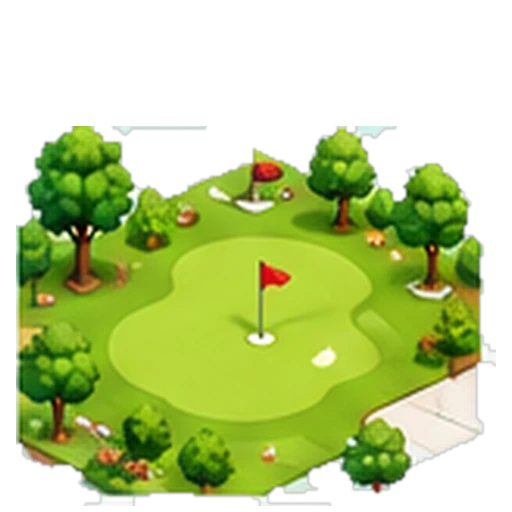
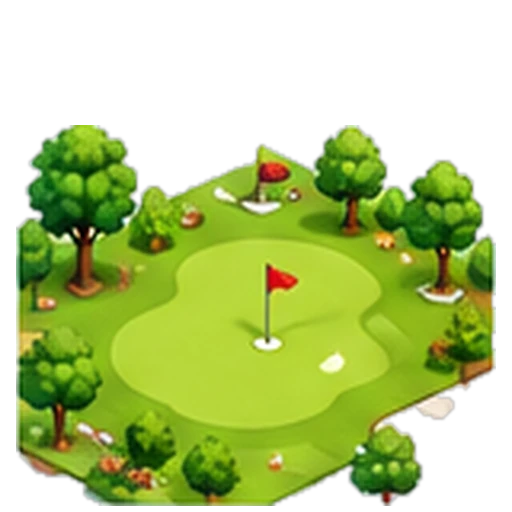
Add files via upload

diff --git a/js/ciutat.js b/js/ciutat.js
@@ -11,7 +11,9 @@ import { imgNegoci, imgLogo, SECTORS_NEGOCI } from './dades.js';
 
 export const W = 236;
 const DZ = 14;
-const MARGE = 0.08;
+const MARGE = 0.1;
+// Canvia aquest número quan actualitzis imatges: obliga el navegador a no fer servir les velles
+export const VERSIO_IMATGES = '3';
 export const iso = (u, v) => ({ x: (u - v) * W / 2, y: (u + v) * W / 4 });
 const clau = (X, Y) => `${X},${Y}`;
 const hash = (X, Y) => { let h = (X * 374761393 + Y * 668265263) >>> 0; h = ((h ^ (h >>> 13)) * 1274126177) >>> 0; return h % 1000; };
@@ -145,7 +147,7 @@ export const nomCarrerDe = (X, Y) => {
 // Vehicles i persones (img/animacions). Els cotxes surten més sovint que els camions.
 const VEHICLES = ['cotxe-1', 'cotxe-vermell', 'cotxe-blau', 'cotxe-groc', 'cotxe-blanc', 'cotxe-verd', 'cotxe-taronja', 'cotxe-gris',
   'cotxe-blau2', 'cabrio-vermell', 'cabrio-blau', 'familiar-beix', 'familiar-verd', 'furgoneta', 'furgoneta', 'camio', 'autobus'];
-const AMPLADA_VEHICLE = { autobus: 175, camio: 150, furgoneta: 120 };
+const AMPLADA_VEHICLE = { autobus: 140, camio: 120, furgoneta: 95 };
 const NUM_PERSONES = 13;
 
 // =============================================================
@@ -166,9 +168,29 @@ export function crearCiutat({ canvas, onClic }) {
 
   function img(src) {
     let im = imatges.get(src);
-    if (!im) { im = new Image(); im.onload = demana; im.src = src; imatges.set(src, im); }
-    return im.complete && im.naturalWidth ? im : null;
+    if (!im) {
+      im = new Image();
+      im.onload = () => { mesurar(im); demana(); };
+      im.src = `${src}?v=${VERSIO_IMATGES}`;
+      imatges.set(src, im);
+    }
+    return im.complete && im.naturalWidth && im._caixa ? im : null;
   }
+  // Mesura la part visible de cada imatge (sense el fons transparent)
+  function mesurar(im) {
+    const c = document.createElement('canvas');
+    c.width = im.naturalWidth; c.height = im.naturalHeight;
+    const g = c.getContext('2d', { willReadFrequently: true });
+    g.drawImage(im, 0, 0);
+    let dades;
+    try { dades = g.getImageData(0, 0, c.width, c.height).data; } catch { im._caixa = { x0: 0, x1: c.width, y1: c.height }; return; }
+    let x0 = c.width, x1 = 0, y1 = 0;
+    for (let y = 0; y < c.height; y++) for (let x = 0; x < c.width; x++) {
+      if (dades[(y * c.width + x) * 4 + 3] > 40) { if (x < x0) x0 = x; if (x > x1) x1 = x; if (y > y1) y1 = y; }
+    }
+    im._caixa = x1 > x0 ? { x0, x1, y1 } : { x0: 0, x1: c.width, y1: c.height };
+  }
+
   function demana() {
     if (pendent) return;
     pendent = true;
@@ -198,9 +220,10 @@ export function crearCiutat({ canvas, onClic }) {
     ctx.setLineDash([]); ctx.lineDashOffset = 0;
   }
 
-  // Dibuixa una imatge isomètrica plana, retallada al seu rombe.
-  // vella: imatges antigues (punta inferior del rombe a y=231, rombe 233 px)
-  function sprite(src, X, Y, { mida = 1, marge = MARGE, base = '#8cbf45', alfa = 1, vella = false } = {}) {
+  // Dibuixa una imatge isomètrica dins de la seva parcel·la:
+  // s'escala perquè la part visible ocupi l'amplada del rombe, s'alinea a la punta de baix
+  // i es retalla pels costats i per sota perquè no envaeixi els carrerons ni les veïnes.
+  function sprite(src, X, Y, { mida = 1, marge = MARGE, base = '#8cbf45' } = {}) {
     const im = img(src);
     if (marge) { rombe(X, Y, mida, mida); ctx.fillStyle = COLORS.carrero; ctx.fill(); }
     const u = X + marge, v = Y + marge, t = mida - 2 * marge;
@@ -208,16 +231,14 @@ export function crearCiutat({ canvas, onClic }) {
     const a = iso(u, v), b = iso(u + t, v), c = iso(u + t, v + t), d = iso(u, v + t);
     if (marge) { ctx.strokeStyle = COLORS.vorada; ctx.lineWidth = 2; ctx.beginPath(); ctx.moveTo(d.x, d.y + DZ); ctx.lineTo(a.x, a.y + DZ); ctx.lineTo(b.x, b.y + DZ); ctx.stroke(); }
     if (im) {
-      const S = im.naturalWidth;
-      const cara = vella ? 233 : S * 236 / 256;          // amplada del rombe dins la imatge
-      const puntaY = vella ? 231 : S * 250 / 256;         // y de la punta inferior del rombe
-      const k = (W * t) / cara;
+      const cx = im._caixa;
+      const k = (W * t) / (cx.x1 - cx.x0 + 1);
+      const mig = (cx.x0 + cx.x1) / 2;
       ctx.save();
       ctx.beginPath();
-      ctx.moveTo(d.x - W, d.y + DZ); ctx.lineTo(d.x, d.y + DZ); ctx.lineTo(c.x, c.y + DZ); ctx.lineTo(b.x, b.y + DZ); ctx.lineTo(b.x + W, b.y + DZ); ctx.lineTo(b.x + W, b.y - 900); ctx.lineTo(d.x - W, d.y - 900);
+      ctx.moveTo(d.x - 1, d.y + DZ); ctx.lineTo(c.x, c.y + DZ + 1); ctx.lineTo(b.x + 1, b.y + DZ); ctx.lineTo(b.x + 1, b.y - 1200); ctx.lineTo(d.x - 1, d.y - 1200);
       ctx.closePath(); ctx.clip();
-      if (alfa !== 1) ctx.globalAlpha = alfa;
-      ctx.drawImage(im, c.x - (S / 2) * k, c.y + DZ - puntaY * k, S * k, S * k);
+      ctx.drawImage(im, c.x - mig * k, c.y + DZ - cx.y1 * k, im.naturalWidth * k, im.naturalHeight * k);
       ctx.restore();
     }
     if (marge) { ctx.strokeStyle = COLORS.vorada; ctx.lineWidth = 2; ctx.beginPath(); ctx.moveTo(d.x, d.y + DZ); ctx.lineTo(c.x, c.y + DZ); ctx.lineTo(b.x, b.y + DZ); ctx.stroke(); }
@@ -253,7 +274,7 @@ export function crearCiutat({ canvas, onClic }) {
     return {
       X, Y, dx, dy, t: Math.random(),
       vel: tipus === 'cotxe' ? 0.9 + Math.random() * 0.5 : 0.22 + Math.random() * 0.1,
-      costat: tipus === 'cotxe' ? 0.18 : (Math.random() < 0.5 ? 0.4 : -0.4),
+      costat: tipus === 'cotxe' ? 0.16 : (Math.random() < 0.5 ? 0.41 : -0.41),
       img: tipus === 'cotxe' ? vehicles[Math.floor(Math.random() * vehicles.length)] : `persona-${1 + Math.floor(Math.random() * NUM_PERSONES)}`,
       tipus, fade: 1,
     };
@@ -297,9 +318,9 @@ export function crearCiutat({ canvas, onClic }) {
     ctx.globalAlpha = a.entrant ? Math.max(0, a.fade) : 1;
     if (a.tipus === 'cotxe') {
       const fw = im.naturalWidth / 4, fh = im.naturalHeight;
-      const ample = AMPLADA_VEHICLE[a.img] || 120;
+      const ample = AMPLADA_VEHICLE[a.img] || 82;
       const k = ample / fw;
-      ctx.drawImage(im, dir * fw, 0, fw, fh, x - (fw * k) / 2, y + DZ - fh * k + 10, fw * k, fh * k);
+      ctx.drawImage(im, dir * fw, 0, fw, fh, x - (fw * k) / 2, y + DZ - fh * k * 0.78, fw * k, fh * k);
     } else {
       const fw = im.naturalWidth / 4, fh = im.naturalHeight / 4;
       const frame = Math.floor((performance.now() / 150 + a.X * 3) % 4);
@@ -329,7 +350,8 @@ export function crearCiutat({ canvas, onClic }) {
     // agents ordenats per diagonal per pintar-los al seu lloc
     const perDiag = new Map();
     if (escala > 0.22) for (const a of [...cotxes, ...vianants]) {
-      const d = Math.floor(a.X + a.dx * (a.t - 0.5) + a.Y + a.dy * (a.t - 0.5) + 1);
+      const u = a.X + 0.5 + a.dx * (a.t - 0.5) + (-a.dy) * a.costat, v = a.Y + 0.5 + a.dy * (a.t - 0.5) + a.dx * a.costat;
+      const d = Math.floor(u) + Math.floor(v);
       if (!perDiag.has(d)) perDiag.set(d, []);
       perDiag.get(d).push(a);
     }
@@ -342,15 +364,14 @@ export function crearCiutat({ canvas, onClic }) {
           // bosc del Parc Natural al nord i arbres pel camp
           const bosc = Y < 0 && Y > -9 && X > -6 && X < 26;
           if (escala > 0.2 && (bosc ? hash(X, Y) < 820 : hash(X, Y) < 110)) {
-            sprite(['img/mapa/decor-arbres.webp', 'img/mapa/decor-arbres-2.webp', 'img/mapa/decor-arbres-3.webp'][hash(Y, X) % 3], X, Y, { marge: 0, base: '#8cbf45', vella: true });
+            sprite(['img/mapa/decor-arbres.webp', 'img/mapa/decor-arbres-2.webp', 'img/mapa/decor-arbres-3.webp'][hash(Y, X) % 3], X, Y, { marge: 0, base: '#8cbf45' });
           }
           continue;
         }
         if (c.tipus === 'carretera') { dibuixaCarretera(X, Y); continue; }
         if (c.tipus === 'part') continue;
         if (c.tipus === 'edifici') {
-          const vell = c.img.includes('/edificis/');
-          sprite(c.img, c.X, c.Y, { mida: c.mida, vella: vell });
+          sprite(c.img, c.X, c.Y, { mida: c.mida });
           etiquetes.push(['edifici', c]);
           continue;
         }
@@ -360,7 +381,7 @@ export function crearCiutat({ canvas, onClic }) {
           etiquetes.push(['local', c, l]);
           continue;
         }
-        if (c.tipus === 'decor') sprite(c.img, X, Y, { vella: c.img.includes('/mapa/') || c.img.includes('/edificis/') });
+        if (c.tipus === 'decor') sprite(c.img, X, Y);
       }
       for (const a of perDiag.get(d) || []) dibuixaAgent(a);
     }
